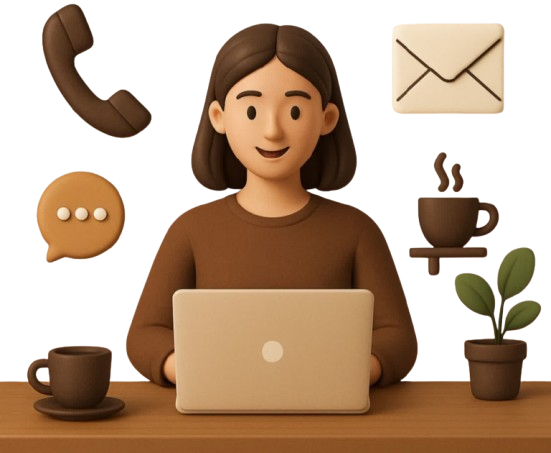
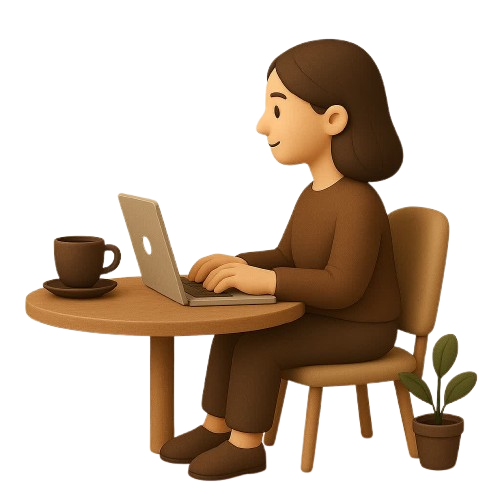
fix : update vite versoin

diff --git a/src/components/organisms/ContactUsSection/ContactUsSection.tsx b/src/components/organisms/ContactUsSection/ContactUsSection.tsx
@@ -22,7 +22,7 @@ const ContactUsSection = () => {
 
   return (
     <Section>
-      <div className="flex justify-between pt-28">
+      <div className="flex gap-80 pt-28">
         <div className="flex flex-col gap-14 w-[700px] ">
           <Title size="medium">Contact Us</Title>
           <InputWithLable
@@ -59,7 +59,7 @@ const ContactUsSection = () => {
           </div>
           <Button onClick={sendMessage}>Send</Button>
         </div>
-        <Image src={"src/assets/images/person.png"} className="w-80 h-72"/>
+        <Image src={"src/assets/images/person.png"} className="w-[500px] h-[450px] mt-24" />
       </div>
     </Section>
   );

diff --git a/src/components/organisms/Register/Register.tsx b/src/components/organisms/Register/Register.tsx
@@ -91,6 +91,7 @@ const Register = () => {
               }
               onBlur={() => setEmailFocus(false)}
               onFocus={() => setEmailFocus(true)}
+              ref={inputRef}
             />
             {!validEmail && emailFocus && email && (
               <Text variant="smaller">Enter your email address.</Text>
@@ -132,7 +133,7 @@ const Register = () => {
           )}
           {success && (
             <Text variant="small" className="text-green-500">
-              Payment successful!
+              Successful Registration!
             </Text>
           )}
           <div className="flex justify-between gap-10">
